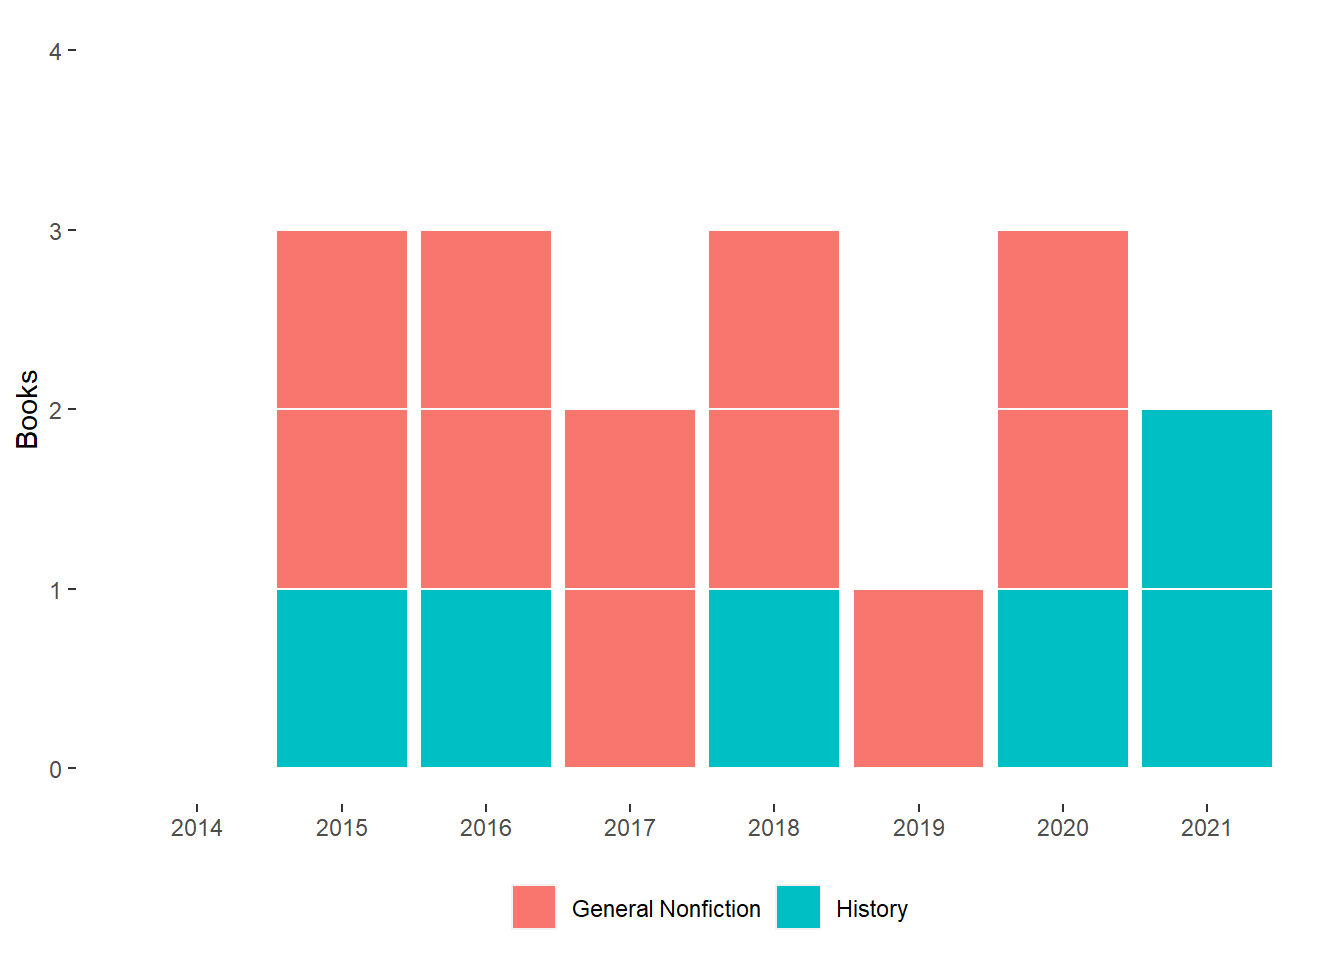
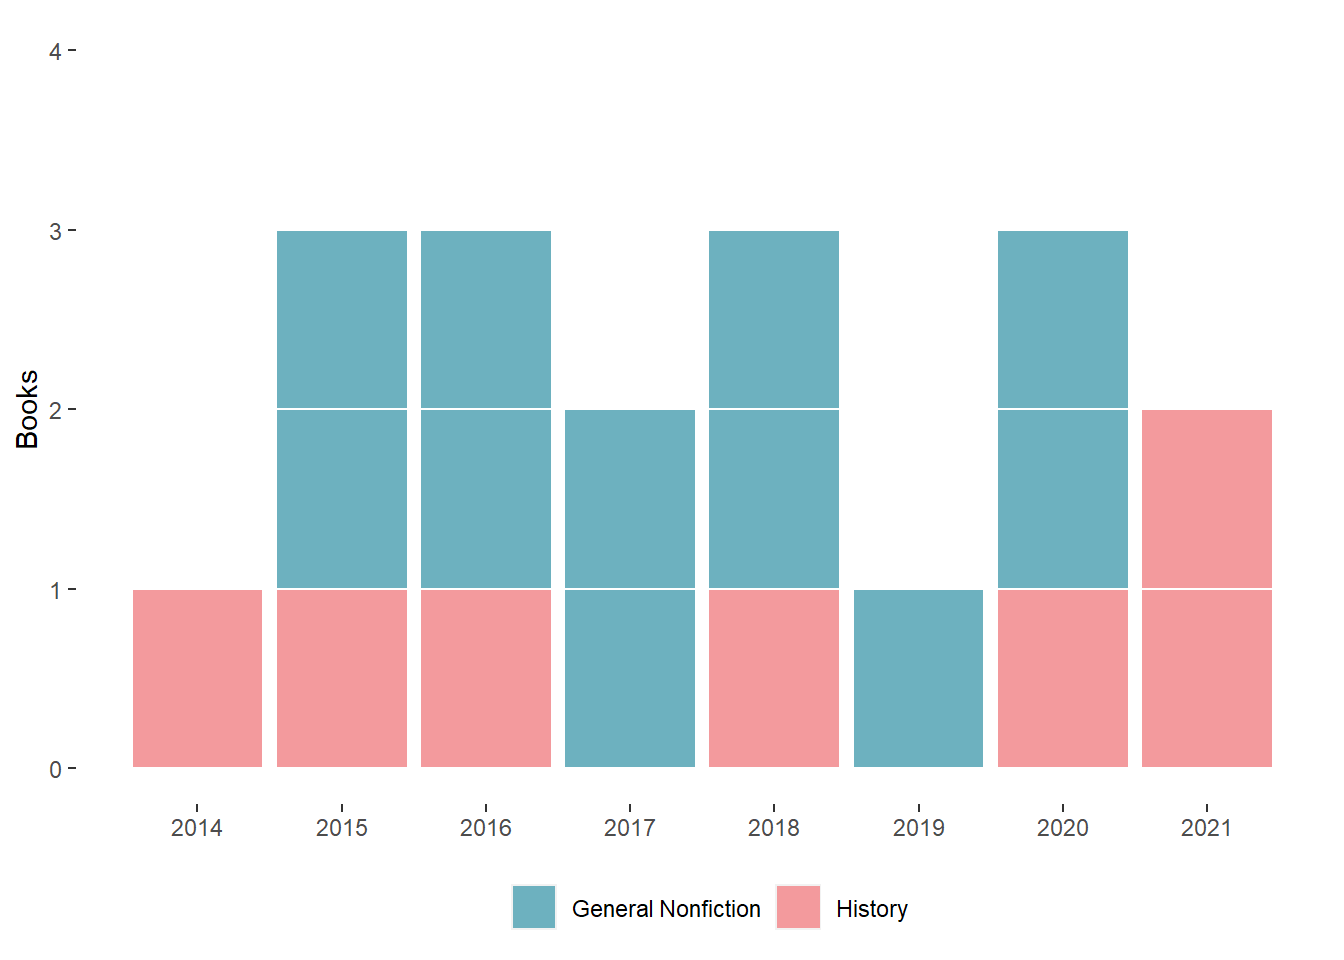
Update first book, clean up pullitzer csv and change color

diff --git a/pullitzer.html b/pullitzer.html
@@ -275,8 +275,8 @@ $(document).ready(function () {
 <div id="the-full-list" class="section level2">
 <h2>The full list</h2>
 <p>These are the finalists and winners of general nonfiction and history, and my progress in reading them.</p>
-<div id="htmlwidget-f3c31e8782ff8302877e" class="reactable html-widget" style="width:auto;height:auto;"></div>
-<script type="application/json" data-for="htmlwidget-f3c31e8782ff8302877e">{"x":{"tag":{"name":"Reactable","attribs":{"data":{"year":[2021,2021,2021,2021,2021,2021,2020,2020,2020,2020,2020,2020,2019,2019,2019,2019,2019,2019,2018,2018,2018,2018,2018,2018,2017,2017,2017,2017,2017,2017,2016,2016,2016,2016,2016,2016,2016,2015,2015,2015,2015,2015,2015,2014,2014,2014,2014,2014,2014],"short.title":["Franchise","The Three-Cornered War","The Deviant's War","Wilmington's Lie","Minor Feelings","Yellow Bird","Sweet Taste of Liberty ","Race for Profit","The End of the Myth ","The Undying","Solitary","Elderhood","Frederick Douglass ","American Eden ","Civilizing Torture ","Amity and Prosperity ","In a Day's Work","Rising","The Gulf ","Fear City ","Hitler in Los Angeles ","Locking Up Our Own ","Notes on a Foreign Country ","The Evolution of Beauty","Blood in the Water ","Brothers at Arms","New England Bound","EvictedÂ ","In a Different Key ","The Politics of Mourning ","Custer's TrialsÂ ","Marching Home","Target Tokyo","The Pentagon's Brain","Black Flags","Between the World and MeÂ ","If the Oceans Were Ink ","Encounters at the Heart of the World ","An Empire on the Edge","Empire of Cotton","The Sixth Extinction","Age of AmbitionÂ ","No Good Men Among the LivingÂ ","The Internal Enemy","A Dreadful Deceit","Command and Control","Toms River","The Blood Telegram","The Insurgents"],"author":["Marcia Chatelain","Megan Kate Nelson","Eric Cervini","David Zucchino","Cathy Park Hong","Sierra Crane Murdoch","W. Caleb McDaniel","Keeanga-Yamahtta Taylor","Greg Grandin","Anne Boyer","Albert Woodfox","Louise Aronson","David W. Blight","Victoria Johnson","Â W. Fitzhugh Brundage","Eliza Griswold","Bernice Yeung","Elizabeth Rush","Jack E. Davis","Â Kim Phillips-Fein","Steven J. Ross","Â James Forman Jr.","Suzy Hansen","Richard O. Prum","Heather Ann ThompsonÂ ","Larrie D. Ferreiro","Wendy Warren","Matthew Desmond","John Donvan and Caren Zucker","Micki McElyaÂ ","T.J. Stiles","Brian Matthew Jordan","James M. Scott","Annie Jacobsen","Joby Warrick","Ta-Nehisi Coates","Carla Power","Elizabeth A. Fenn","Nick Bunker","Steven Beckert","Elizabeth KolbertÂ ","Evan Osnos","Anand Gopal","Alan Taylor","Jacqueline Jones","Eric Schlosser","Dan FaginÂ ","Gary J. Bass","Fred Kaplan"],"read":[1,1,0,0,0,0,1,0,1,0,1,0,0,0,0,1,0,0,1,0,0,1,0,1,0,0,0,1,1,0,1,0,0,0,1,1,0,1,0,0,0,1,1,0,0,0,0,0,0],"award":["winner","finalist","finalist","winner","finalist","finalist","winner","finalist","winner","winner","finalist","finalist","winner","finalist","finalist","winner","finalist","finalist","winner","finalist","finalist","winner","finalist","finalist","winner","finalist","finalist","winner","finalist","finalist","winner","finalist","finalist","finalist","winner","finalist","finalist","winner","finalist","finalist","winner","finalist","finalist","winner","finalist","finalist","winner","finalist","finalist"],"category":["history","history","history","general-nonfiction","general-nonfiction","general-nonfiction","history","history","general-nonfiction","general-nonfiction","general-nonfiction","general-nonfiction","history","history","history","general-nonfiction","general-nonfiction","general-nonfiction","history","history","history","general-nonfiction","general-nonfiction","general-nonfiction","history","history","history","general-nonfiction","general-nonfiction","general-nonfiction","history","history","history","history","general-nonfiction","general-nonfiction","general-nonfiction","history","history","history","general-nonfiction","general-nonfiction","general-nonfiction","history","history","history","general-nonfiction","general-nonfiction","general-nonfiction"]},"columns":[{"accessor":"year","name":"Year","type":"numeric"},{"accessor":"short.title","name":"Title","type":"character"},{"accessor":"author","name":"Author","type":"character"},{"accessor":"read","name":"Read","type":"numeric"},{"accessor":"award","name":"Award","type":"character"},{"accessor":"category","name":"Category","type":"character"}],"defaultPageSize":20,"paginationType":"numbers","showPageInfo":true,"minRows":1,"showSortable":true,"rowStyle":[{"fontWeight":"bold"},{"fontWeight":"bold"},null,null,null,null,{"fontWeight":"bold"},null,{"fontWeight":"bold"},null,{"fontWeight":"bold"},null,null,null,null,{"fontWeight":"bold"},null,null,{"fontWeight":"bold"},null,null,{"fontWeight":"bold"},null,{"fontWeight":"bold"},null,null,null,{"fontWeight":"bold"},{"fontWeight":"bold"},null,{"fontWeight":"bold"},null,null,null,{"fontWeight":"bold"},{"fontWeight":"bold"},null,{"fontWeight":"bold"},null,null,null,{"fontWeight":"bold"},{"fontWeight":"bold"},null,null,null,null,null,null],"dataKey":"b0cf158cb24fa1213f9cb3ecc8fa52cf","key":"b0cf158cb24fa1213f9cb3ecc8fa52cf"},"children":[]},"class":"reactR_markup"},"evals":[],"jsHooks":[]}</script>
+<div id="htmlwidget-780db0d097d779e908b6" class="reactable html-widget" style="width:auto;height:auto;"></div>
+<script type="application/json" data-for="htmlwidget-780db0d097d779e908b6">{"x":{"tag":{"name":"Reactable","attribs":{"data":{"year":[2021,2021,2021,2021,2021,2021,2020,2020,2020,2020,2020,2020,2019,2019,2019,2019,2019,2019,2018,2018,2018,2018,2018,2018,2017,2017,2017,2017,2017,2017,2016,2016,2016,2016,2016,2016,2016,2015,2015,2015,2015,2015,2015,2014,2014,2014,2014,2014,2014],"short.title":["Franchise","The Three-Cornered War","The Deviant's War","Wilmington's Lie","Minor Feelings","Yellow Bird","Sweet Taste of Liberty ","Race for Profit","The End of the Myth ","The Undying","Solitary","Elderhood","Frederick Douglass ","American Eden ","Civilizing Torture ","Amity and Prosperity ","In a Day's Work","Rising","The Gulf ","Fear City ","Hitler in Los Angeles ","Locking Up Our Own ","Notes on a Foreign Country ","The Evolution of Beauty","Blood in the Water ","Brothers at Arms","New England Bound","Evicted ","In a Different Key ","The Politics of Mourning ","Custer's Trials ","Marching Home","Target Tokyo","The Pentagon's Brain","Black Flags","Between the World and Me ","If the Oceans Were Ink ","Encounters at the Heart of the World ","An Empire on the Edge","Empire of Cotton","The Sixth Extinction","Age of Ambition ","No Good Men Among the Living ","The Internal Enemy","A Dreadful Deceit","Command and Control","Toms River","The Blood Telegram","The Insurgents"],"author":["Marcia Chatelain","Megan Kate Nelson","Eric Cervini","David Zucchino","Cathy Park Hong","Sierra Crane Murdoch","W. Caleb McDaniel","Keeanga-Yamahtta Taylor","Greg Grandin","Anne Boyer","Albert Woodfox","Louise Aronson","David W. Blight","Victoria Johnson","W. Fitzhugh Brundage","Eliza Griswold","Bernice Yeung","Elizabeth Rush","Jack E. Davis"," Kim Phillips-Fein","Steven J. Ross","James Forman Jr.","Suzy Hansen","Richard O. Prum","Heather Ann Thompson ","Larrie D. Ferreiro","Wendy Warren","Matthew Desmond","John Donvan and Caren Zucker","Micki McElya ","T.J. Stiles","Brian Matthew Jordan","James M. Scott","Annie Jacobsen","Joby Warrick","Ta-Nehisi Coates","Carla Power","Elizabeth A. Fenn","Nick Bunker","Steven Beckert","Elizabeth Kolbert ","Evan Osnos","Anand Gopal","Alan Taylor","Jacqueline Jones","Eric Schlosser","Dan Fagin ","Gary J. Bass","Fred Kaplan"],"read":[1,1,0,0,0,0,1,0,1,0,1,0,0,0,0,1,0,0,1,0,0,1,0,1,0,0,0,1,1,0,1,0,0,0,1,1,0,1,0,0,0,1,1,0,0,1,0,0,0],"award":["winner","finalist","finalist","winner","finalist","finalist","winner","finalist","winner","winner","finalist","finalist","winner","finalist","finalist","winner","finalist","finalist","winner","finalist","finalist","winner","finalist","finalist","winner","finalist","finalist","winner","finalist","finalist","winner","finalist","finalist","finalist","winner","finalist","finalist","winner","finalist","finalist","winner","finalist","finalist","winner","finalist","finalist","winner","finalist","finalist"],"category":["history","history","history","general-nonfiction","general-nonfiction","general-nonfiction","history","history","general-nonfiction","general-nonfiction","general-nonfiction","general-nonfiction","history","history","history","general-nonfiction","general-nonfiction","general-nonfiction","history","history","history","general-nonfiction","general-nonfiction","general-nonfiction","history","history","history","general-nonfiction","general-nonfiction","general-nonfiction","history","history","history","history","general-nonfiction","general-nonfiction","general-nonfiction","history","history","history","general-nonfiction","general-nonfiction","general-nonfiction","history","history","history","general-nonfiction","general-nonfiction","general-nonfiction"]},"columns":[{"accessor":"year","name":"Year","type":"numeric"},{"accessor":"short.title","name":"Title","type":"character"},{"accessor":"author","name":"Author","type":"character"},{"accessor":"read","name":"Read","type":"numeric"},{"accessor":"award","name":"Award","type":"character"},{"accessor":"category","name":"Category","type":"character"}],"defaultPageSize":20,"paginationType":"numbers","showPageInfo":true,"minRows":1,"showSortable":true,"rowStyle":[{"fontWeight":"bold"},{"fontWeight":"bold"},null,null,null,null,{"fontWeight":"bold"},null,{"fontWeight":"bold"},null,{"fontWeight":"bold"},null,null,null,null,{"fontWeight":"bold"},null,null,{"fontWeight":"bold"},null,null,{"fontWeight":"bold"},null,{"fontWeight":"bold"},null,null,null,{"fontWeight":"bold"},{"fontWeight":"bold"},null,{"fontWeight":"bold"},null,null,null,{"fontWeight":"bold"},{"fontWeight":"bold"},null,{"fontWeight":"bold"},null,null,null,{"fontWeight":"bold"},{"fontWeight":"bold"},null,null,{"fontWeight":"bold"},null,null,null],"dataKey":"d85a266eb56208555a6f3975d6e1183a","key":"d85a266eb56208555a6f3975d6e1183a"},"children":[]},"class":"reactR_markup"},"evals":[],"jsHooks":[]}</script>
 </div>
 
 

diff --git a/index.html b/index.html
@@ -280,13 +280,13 @@ $(document).ready(function () {
 <div id="how-im-doing" class="section level3">
 <h3>How I’m doing</h3>
 <p>Three years of steady progress and then a decline. But here’s to better trends going forward.</p>
-<div id="htmlwidget-9be5755753da75e3f509" style="width:672px;height:480px;" class="plotly html-widget"></div>
-<script type="application/json" data-for="htmlwidget-9be5755753da75e3f509">{"x":{"visdat":{"443c5249788c":["function () ","plotlyVisDat"]},"cur_data":"443c5249788c","attrs":{"443c5249788c":{"x":{},"y":{},"mode":"lines","alpha_stroke":1,"sizes":[10,100],"spans":[1,20],"type":"scatter"}},"layout":{"margin":{"b":40,"l":60,"t":25,"r":10},"shapes":[{"type":"line","x0":2016,"x1":2022,"y0":24,"y1":24,"line":{"width":2,"dash":"dot"}}],"xaxis":{"domain":[0,1],"automargin":true,"title":"year"},"yaxis":{"domain":[0,1],"automargin":true,"title":"Books"},"hovermode":"closest","showlegend":false},"source":"A","config":{"modeBarButtonsToAdd":["hoverclosest","hovercompare"],"showSendToCloud":false},"data":[{"x":[2017,2018,2019,2020,2021],"y":[18,23,23,9,10],"mode":"lines","type":"scatter","marker":{"color":"rgba(31,119,180,1)","line":{"color":"rgba(31,119,180,1)"}},"error_y":{"color":"rgba(31,119,180,1)"},"error_x":{"color":"rgba(31,119,180,1)"},"line":{"color":"rgba(31,119,180,1)"},"xaxis":"x","yaxis":"y","frame":null}],"highlight":{"on":"plotly_click","persistent":false,"dynamic":false,"selectize":false,"opacityDim":0.2,"selected":{"opacity":1},"debounce":0},"shinyEvents":["plotly_hover","plotly_click","plotly_selected","plotly_relayout","plotly_brushed","plotly_brushing","plotly_clickannotation","plotly_doubleclick","plotly_deselect","plotly_afterplot","plotly_sunburstclick"],"base_url":"https://plot.ly"},"evals":[],"jsHooks":[]}</script>
+<div id="htmlwidget-27bac412e3153d98837d" style="width:672px;height:480px;" class="plotly html-widget"></div>
+<script type="application/json" data-for="htmlwidget-27bac412e3153d98837d">{"x":{"visdat":{"982026075388":["function () ","plotlyVisDat"]},"cur_data":"982026075388","attrs":{"982026075388":{"x":{},"y":{},"mode":"lines","alpha_stroke":1,"sizes":[10,100],"spans":[1,20],"type":"scatter"}},"layout":{"margin":{"b":40,"l":60,"t":25,"r":10},"shapes":[{"type":"line","x0":2016,"x1":2022,"y0":24,"y1":24,"line":{"width":2,"dash":"dot"}}],"xaxis":{"domain":[0,1],"automargin":true,"title":"year"},"yaxis":{"domain":[0,1],"automargin":true,"title":"Books"},"hovermode":"closest","showlegend":false},"source":"A","config":{"modeBarButtonsToAdd":["hoverclosest","hovercompare"],"showSendToCloud":false},"data":[{"x":[2017,2018,2019,2020,2021,2022],"y":[18,23,23,9,10,1],"mode":"lines","type":"scatter","marker":{"color":"rgba(31,119,180,1)","line":{"color":"rgba(31,119,180,1)"}},"error_y":{"color":"rgba(31,119,180,1)"},"error_x":{"color":"rgba(31,119,180,1)"},"line":{"color":"rgba(31,119,180,1)"},"xaxis":"x","yaxis":"y","frame":null}],"highlight":{"on":"plotly_click","persistent":false,"dynamic":false,"selectize":false,"opacityDim":0.2,"selected":{"opacity":1},"debounce":0},"shinyEvents":["plotly_hover","plotly_click","plotly_selected","plotly_relayout","plotly_brushed","plotly_brushing","plotly_clickannotation","plotly_doubleclick","plotly_deselect","plotly_afterplot","plotly_sunburstclick"],"base_url":"https://plot.ly"},"evals":[],"jsHooks":[]}</script>
 </div>
 <div id="what-have-i-read-this-year" class="section level3">
 <h3>What have I read this year?</h3>
-<div id="htmlwidget-ba820e31c22cdad1b5ef" class="reactable html-widget" style="width:auto;height:auto;"></div>
-<script type="application/json" data-for="htmlwidget-ba820e31c22cdad1b5ef">{"x":{"tag":{"name":"Reactable","attribs":{"data":{"Title":["Pandemic: Tracking Contagions, from Cholera to Coronaviruses and Beyond","Civilizing Torture: An American Tradition","What Tech Calls Thinking: An Inquiry into the Intellectual Bedrock of Silicon Valley","Making the Unequal Metropolis: School Desegregation and Its Limits","Vision or Mirage: Saudi Arabia at the Crossroads","A Promised Land","The Premonition: A Pandemic Story","Ghosts in the Schoolyard: Racism and School Closings on Chicago's South Side","Franchise: The Golden Arches in Black America","The Three-Cornered War: The Union, the Confederacy, and Native Peoples in the Fight for the West"],"Author":["Sonia Shah","W. Fitzhugh Brundage","Adrian Daub","Ansley T. Erickson","David Rundell","Barack Obama","Michael Lewis","Eve. L. Ewing","Marcia Chatelain"," Megan Kate Nelson"]},"columns":[{"accessor":"Title","name":"Title","type":"character"},{"accessor":"Author","name":"Author","type":"character"}],"defaultPageSize":10,"paginationType":"numbers","showPageInfo":true,"minRows":1,"showSortable":true,"dataKey":"5ec5fcaba474a0087ebc3ca1dd35ec70","key":"5ec5fcaba474a0087ebc3ca1dd35ec70"},"children":[]},"class":"reactR_markup"},"evals":[],"jsHooks":[]}</script>
+<div id="htmlwidget-6b7f94ec5b3cb8906e7c" class="reactable html-widget" style="width:auto;height:auto;"></div>
+<script type="application/json" data-for="htmlwidget-6b7f94ec5b3cb8906e7c">{"x":{"tag":{"name":"Reactable","attribs":{"data":{"Title":["Command and Control: Nuclear Weapoins, the Damascus Acciden, and the Illusion of Safety"],"Author":["Eric Schlosser"]},"columns":[{"accessor":"Title","name":"Title","type":"character"},{"accessor":"Author","name":"Author","type":"character"}],"defaultPageSize":10,"paginationType":"numbers","showPageInfo":true,"minRows":1,"showSortable":true,"dataKey":"2451879e7fc6ca00d0c6403af716beb7","key":"2451879e7fc6ca00d0c6403af716beb7"},"children":[]},"class":"reactR_markup"},"evals":[],"jsHooks":[]}</script>
 </div>
 
 
